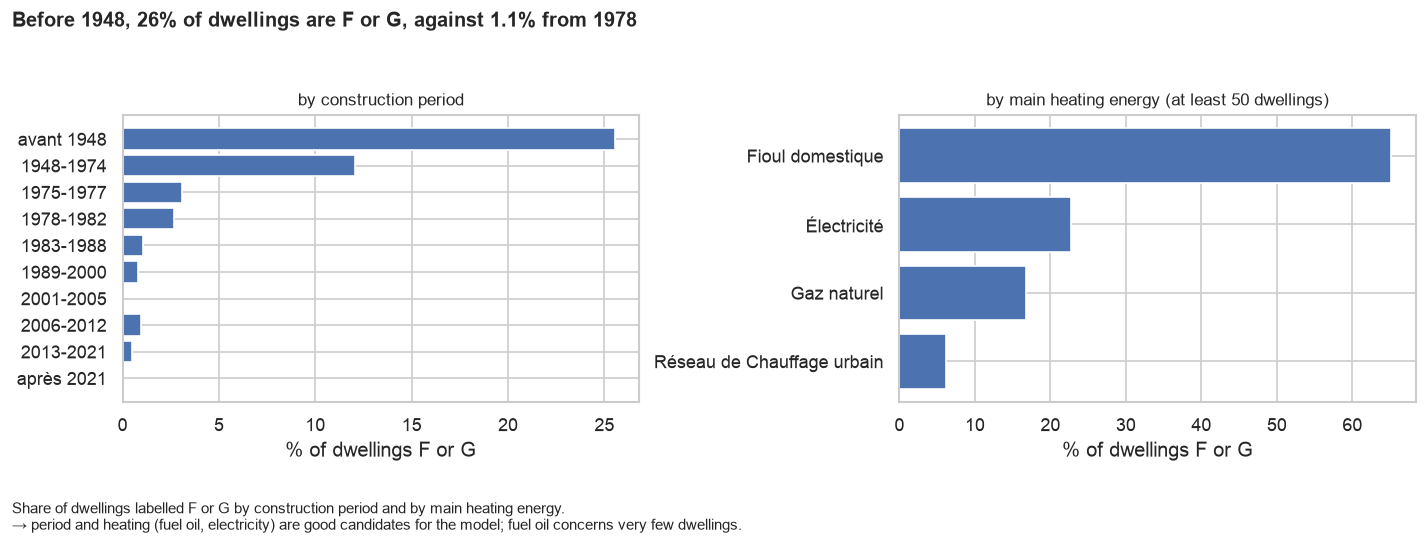
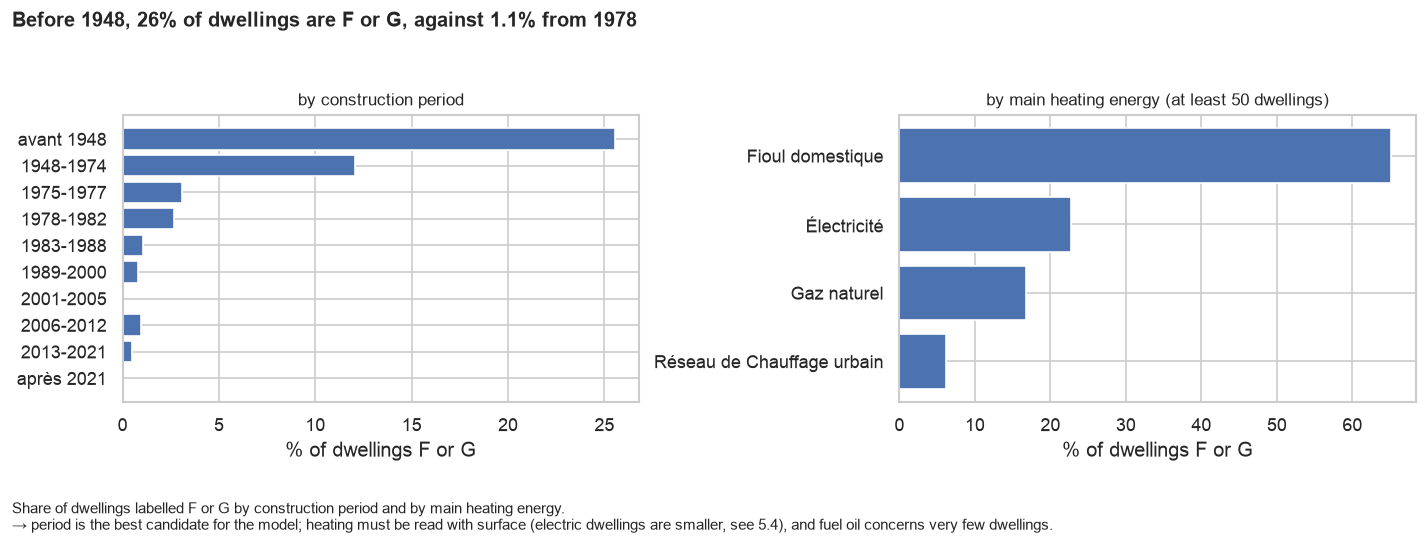
notebook 01 renamed in English, small fixes in comments and captions

Changed region(s): [[0.0616, 0.9341, 0.7395, 0.9963]]

diff --git a/README.md b/README.md
@@ -19,7 +19,7 @@ How are DPE labels (A to G) distributed in Paris, and how do they vary with cons
 ## Repository content
 
 ```
-notebooks/01_collecte_qualite.ipynb   collection, schema, data quality, exploration (sections 1 to 6)
+notebooks/01_collection_quality.ipynb   collection, schema, data quality, exploration (sections 1 to 6)
 notebooks/02_models.ipynb             logistic regression by hand, decision tree, random forest
 data/raw/raw.parquet                  raw collected data (and its README)
 data/processed/clean.parquet          clean data (written by notebook 01)
@@ -38,7 +38,7 @@ requirements.txt                      packages and versions
 python3 -m venv .venv
 source .venv/bin/activate
 pip install -r requirements.txt jupyter
-jupyter nbconvert --to notebook --execute --inplace notebooks/01_collecte_qualite.ipynb
+jupyter nbconvert --to notebook --execute --inplace notebooks/01_collection_quality.ipynb
 jupyter nbconvert --to notebook --execute --inplace notebooks/02_models.ipynb
 ```
 

diff --git a/reports/data_quality_report.md b/reports/data_quality_report.md
@@ -1,6 +1,6 @@
 # Data-Quality Report — DPE of existing dwellings in Paris (ADEME `dpe03existant`)
 
-**Group:** Elie Maarek, Joshai Bensoussan, Lucas Noury · **Date:** 2026-11-05 · **Notebook:** `notebooks/01_collecte_qualite.ipynb` · **Commit:** `e2d7470`
+**Group:** Elie Maarek, Joshai Bensoussan, Lucas Noury · **Date:** 2026-11-05 · **Notebook:** `notebooks/01_collection_quality.ipynb` · **Commit:** `e2d7470`
 **Clean-data fingerprint:** `78abd427b5da`
 
 
@@ -75,6 +75,6 @@ Condensed from `reports/decision_table.csv` (notebook 4.4).
 ```bash
 python3 -m venv .venv && source .venv/bin/activate
 pip install -r requirements.txt jupyter
-jupyter nbconvert --to notebook --execute --inplace notebooks/01_collecte_qualite.ipynb
+jupyter nbconvert --to notebook --execute --inplace notebooks/01_collection_quality.ipynb
 ```
 Expected fingerprint: `78abd427b5da` (the notebook reads `data/raw/raw.parquet`; `RECOLLECT = True` draws a new sample).
